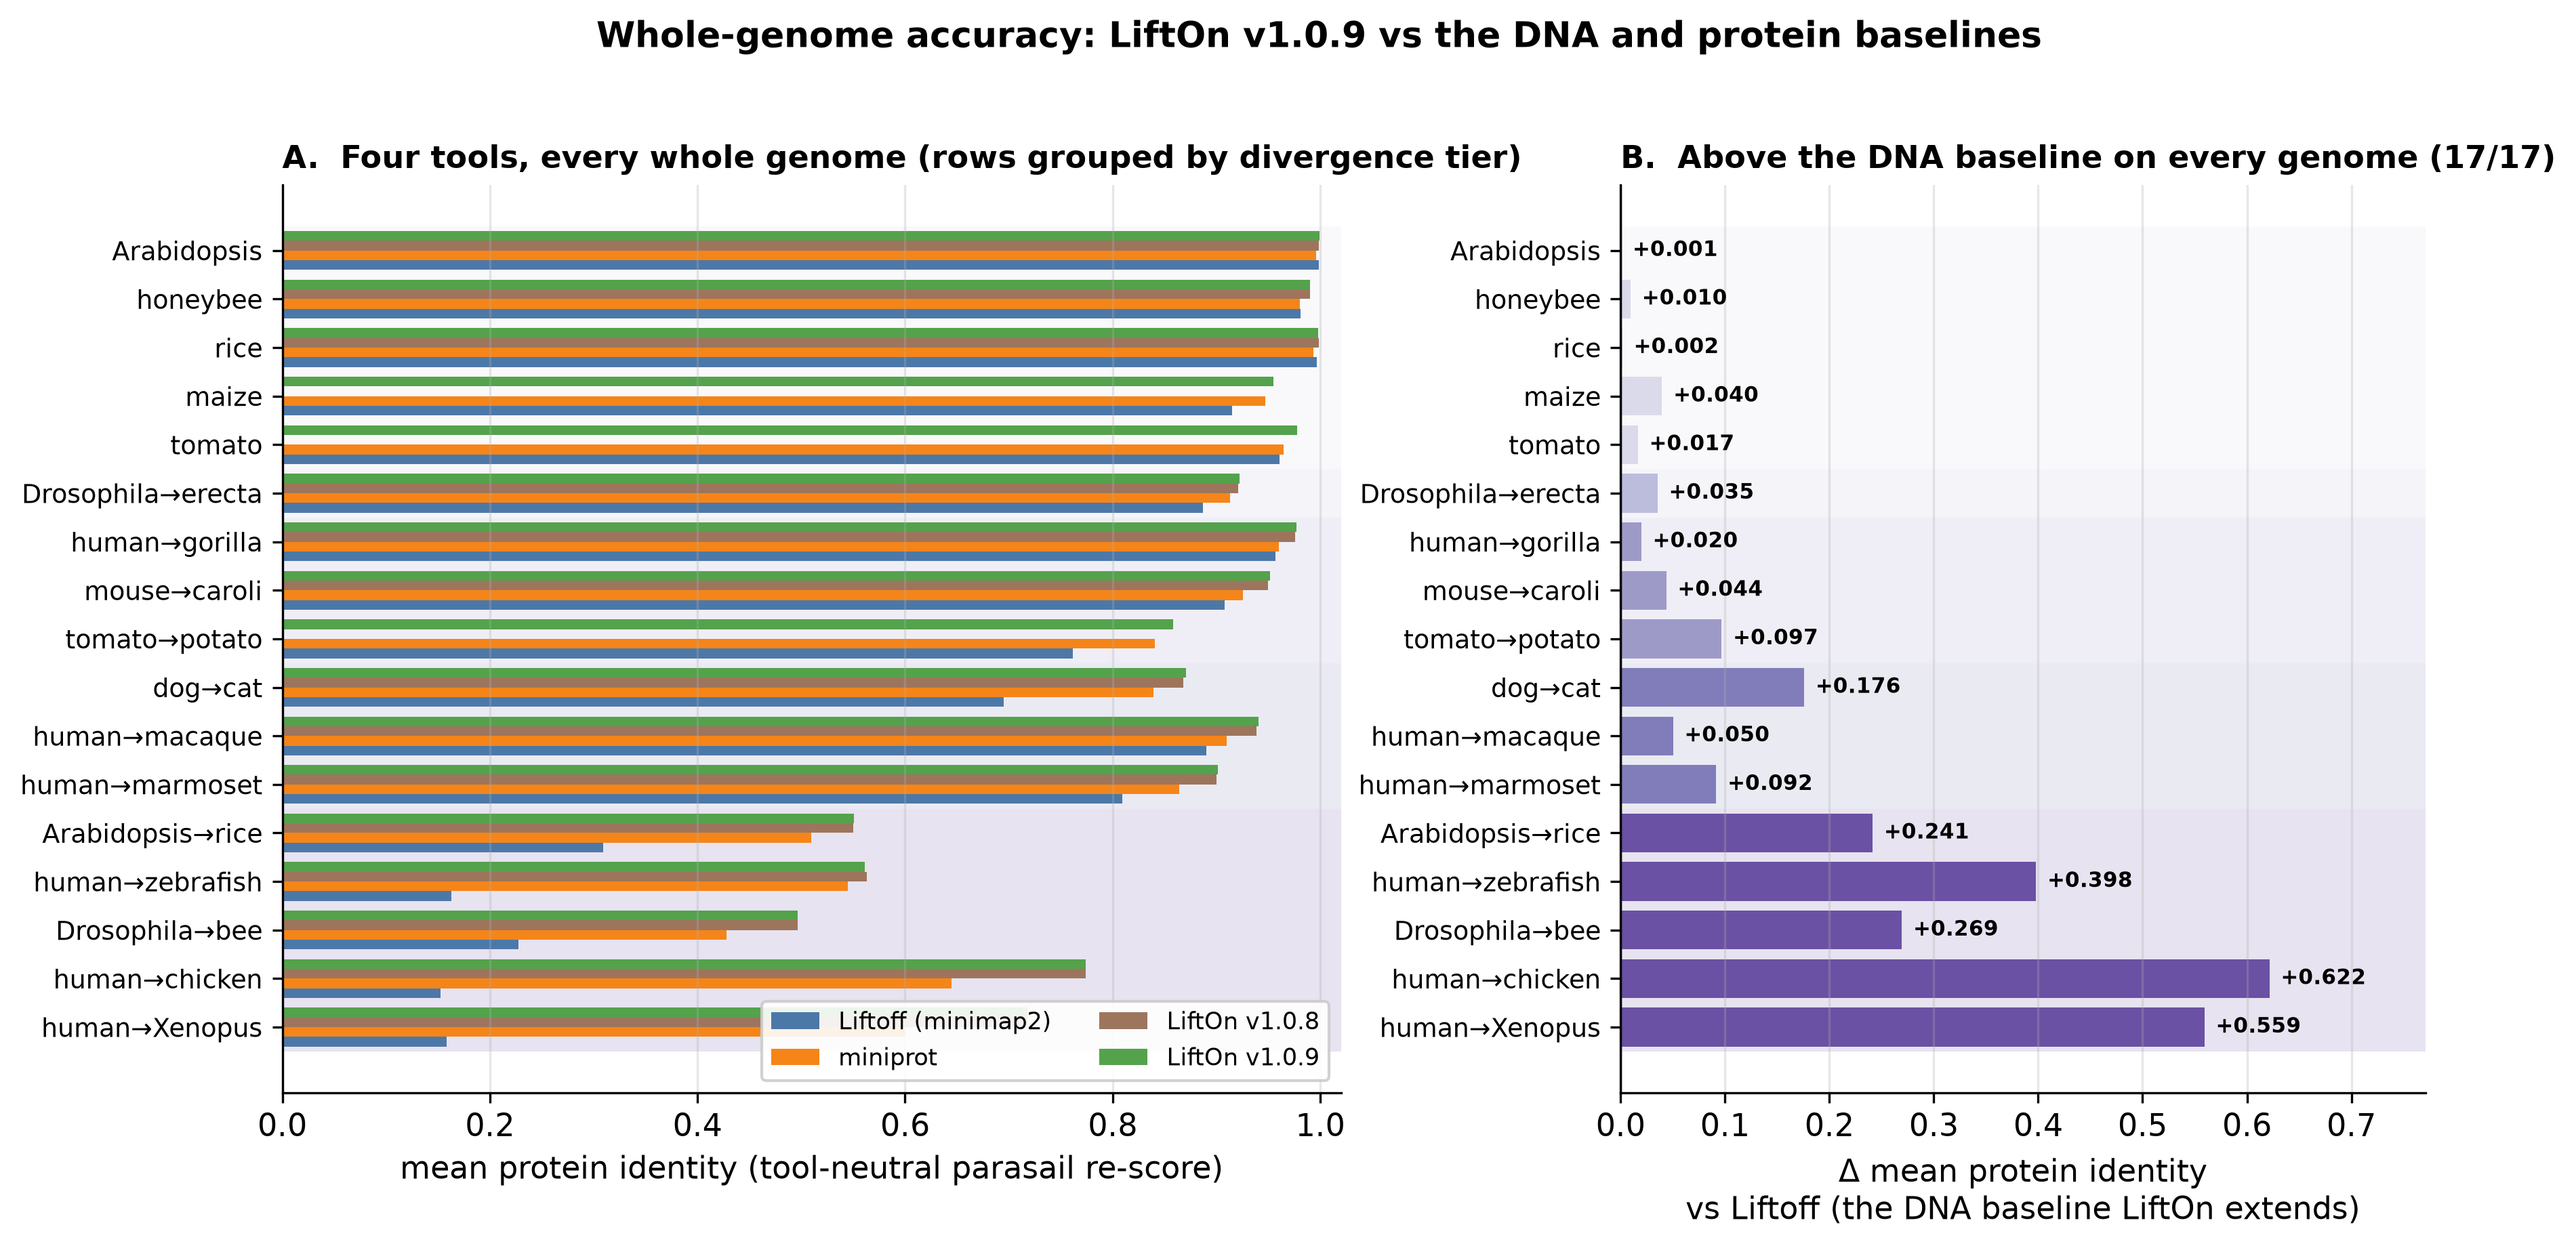
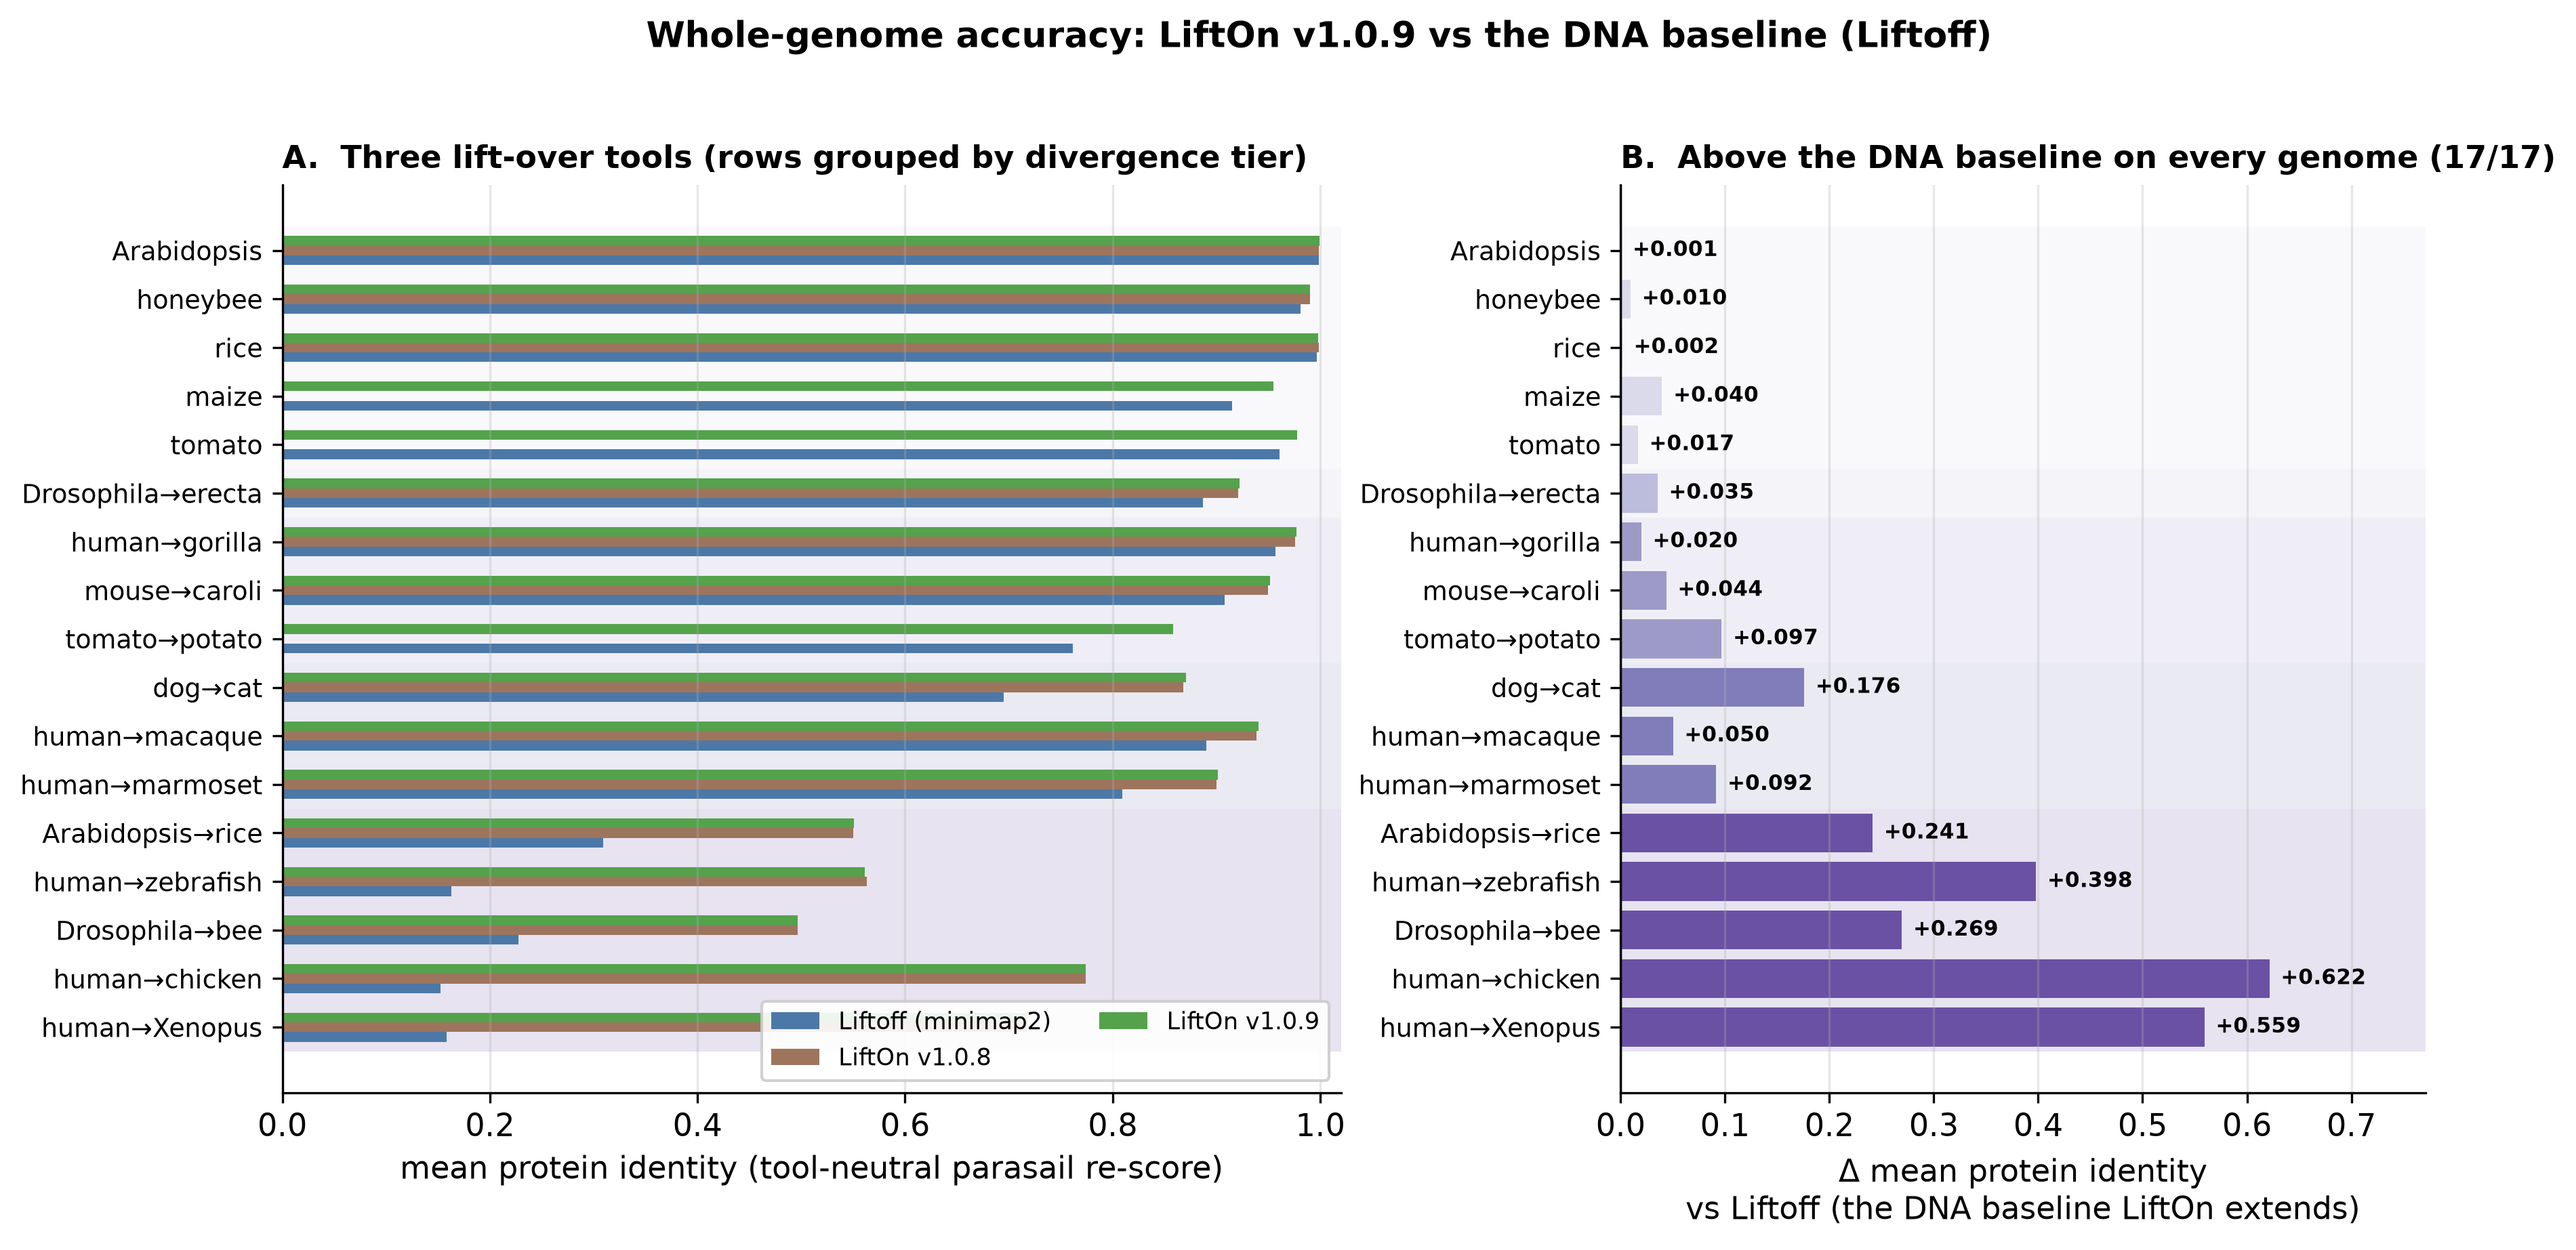
bench(report figures): demote miniprot to protein-evidence in the headline figures
Reframe the v1.0.9 report figures so miniprot is shown as LiftOn's internal
protein evidence (the -M input it fuses), not a rival lift-over tool. The
headline comparison is the three homology lift-over tools (Liftoff, LiftOn
v1.0.8, v1.0.9):
- master_report.py: add HEADLINE_TOOLS / EVIDENCE_TOOLS (+ EXT_TOOLS scaffolding
  for the upcoming CAT/LiftOver sub-study).
- fig_full_accuracy: panel A = the 3 lift-over tools (miniprot removed);
  suptitle "vs the DNA baseline (Liftoff)".
- fig_full_completeness: 3 headline bars + miniprot as distinct evidence
  diamonds (keeps the recall-trade-off story without a peer bar).
- fig_full_apples_to_apples: relabeled the protein-evidence view.

Presentation only; all numbers from the committed fourway_results.json unchanged.

Claude-Session: https://claude.ai/code/session_01BGA1R8hxE5ZKL2ieXNhWW4

diff --git a/benchmarks/compare/report_figures.py b/benchmarks/compare/report_figures.py
@@ -583,12 +583,14 @@ def fig_full_accuracy(fw):
     axA = fig.add_subplot(gs[0, 0])
     axB = fig.add_subplot(gs[0, 1])
 
-    # (A) four-way mean protein identity
+    # (A) headline accuracy — the three homology lift-over tools. miniprot is
+    # LiftOn's internal protein evidence (not a rival lift-over tool); its
+    # accuracy context lives in the dedicated protein-evidence figure, not here.
     _tier_bands(axA, recs)
-    for i, t in enumerate(mr.TOOLS):
+    for i, t in enumerate(mr.HEADLINE_TOOLS):
         vals = [r["mean_pi"].get(t) if isinstance(r["mean_pi"].get(t), float) else 0
                 for r in recs]
-        axA.barh(y + (1.5 - i) * h, vals, height=h, color=mr.TOOL_COLORS[t],
+        axA.barh(y + (1 - i) * h, vals, height=h, color=mr.TOOL_COLORS[t],
                  label=LABEL[t])
     axA.set_yticks(y)
     axA.set_yticklabels(labels, fontsize=9)
@@ -597,7 +599,7 @@ def fig_full_accuracy(fw):
     axA.set_xlabel("mean protein identity (tool-neutral parasail re-score)")
     axA.grid(axis="x", alpha=0.3)
     axA.legend(fontsize=8.5, loc="lower right", ncol=2, framealpha=0.9)
-    _panel_title(axA, "A", "Four tools, every whole genome (rows grouped by divergence tier)")
+    _panel_title(axA, "A", "Three lift-over tools (rows grouped by divergence tier)")
 
     # (B) devel − Liftoff: LiftOn's value-add over the pure-DNA model, which grows
     # from negligible (same-species, DNA already near-perfect) to enormous
@@ -623,7 +625,7 @@ def fig_full_accuracy(fw):
                          fontsize=7.5, fontweight="bold")
     _nwin = sum(1 for d in deltas if d is not None and d >= 0)
     _panel_title(axB, "B", f"Above the DNA baseline on every genome ({_nwin}/{len(recs)})")
-    fig.suptitle("Whole-genome accuracy: LiftOn v1.0.9 vs the DNA and protein baselines",
+    fig.suptitle("Whole-genome accuracy: LiftOn v1.0.9 vs the DNA baseline (Liftoff)",
                  fontsize=12.5, fontweight="bold", y=1.02)
     return _save(fig, "rfig_full_accuracy.png")
 
@@ -635,17 +637,26 @@ def fig_full_completeness(fw):
     h = 0.2
     fig, ax = plt.subplots(figsize=(11.6, 6.6))
     _tier_bands(ax, recs)
-    for i, t in enumerate(mr.TOOLS):
+    for i, t in enumerate(mr.HEADLINE_TOOLS):
         vals = [(r["completeness_coding"].get(t) or 0) * 100
                 if isinstance(r["completeness_coding"].get(t), float) else 0
                 for r in recs]
-        ax.barh(y + (1.5 - i) * h, vals, height=h, color=mr.TOOL_COLORS[t],
+        ax.barh(y + (1 - i) * h, vals, height=h, color=mr.TOOL_COLORS[t],
                 label=LABEL[t])
+    # miniprot is LiftOn's protein EVIDENCE, not a rival lift-over tool — show its
+    # (often much higher) recall as a distinct evidence marker, so the very-distant
+    # recall context stays visible without framing it as a headline bar.
+    mp = [(r["completeness_coding"].get("miniprot") or 0) * 100
+          if isinstance(r["completeness_coding"].get("miniprot"), float) else 0
+          for r in recs]
+    ax.scatter(mp, y + 1.8 * h, marker="D", s=24, color=mr.TOOL_COLORS["miniprot"],
+               edgecolor="k", linewidth=0.4, zorder=6,
+               label="miniprot — protein evidence (recall)")
     # mark the genomes v1.0.8 crashed on. Where it left a scorable partial
     # annotation (arabidopsis 28%, rice 77%) show that %; where it aborted with
     # no scorable whole-genome output (maize, tomato pairs) show just "crash"
     # at the axis origin rather than a misleading "0%".
-    stable_y = y + (1.5 - 2) * h
+    stable_y = y   # lifton_stable is the middle headline bar (offset 0)
     for yi, r in zip(stable_y, recs):
         if _is_stable_crash(r):
             scc = r["completeness_coding"].get("lifton_stable")
@@ -664,8 +675,9 @@ def fig_full_completeness(fw):
     ax.set_xlabel("coding-transcript completeness (% of reference)")
     ax.legend(fontsize=8.5, loc="lower right", ncol=2, framealpha=0.9)
     ax.grid(axis="x", alpha=0.3)
-    ax.set_title("Whole-genome completeness — at extreme distance miniprot trades "
-                 "identity for recall", fontsize=11.5, fontweight="bold", loc="left")
+    ax.set_title("Whole-genome completeness — the protein evidence (miniprot) "
+                 "recovers more at extreme distance", fontsize=11.5,
+                 fontweight="bold", loc="left")
     return _save(fig, "rfig_full_completeness.png")
 
 
@@ -738,7 +750,7 @@ def fig_full_apples_to_apples(fw):
              label="set-mean lead vs best(Liftoff, miniprot)")
     axA.barh(y + h / 2, [d or 0 for d in common], height=h,
              color=["#2ca02c" if (d or 0) >= 0 else "#d62728" for d in common],
-             label="apples-to-apples vs miniprot (common recovered set)")
+             label="apples-to-apples vs the protein evidence (common recovered set)")
     for yi, c, n in zip(y, common, ncom):
         if isinstance(n, int):
             axA.annotate(f"n={n:,}", (c or 0, yi + h / 2),
@@ -760,7 +772,8 @@ def fig_full_apples_to_apples(fw):
     cov_dev = [(r["joint"].get("covpi") or {}).get("lifton_devel", 0) for r in recs]
     cov_mp = [(r["joint"].get("covpi") or {}).get("miniprot", 0) for r in recs]
     axB.barh(y - h / 2, cov_dev, height=h, color=mr.TOOL_COLORS["lifton_devel"], label="LiftOn v1.0.9")
-    axB.barh(y + h / 2, cov_mp, height=h, color=mr.TOOL_COLORS["miniprot"], label="miniprot")
+    axB.barh(y + h / 2, cov_mp, height=h, color=mr.TOOL_COLORS["miniprot"],
+             label="miniprot (protein evidence)")
     axB.set_yticks(y)
     axB.set_yticklabels(labels, fontsize=9)
     axB.invert_yaxis()
@@ -769,8 +782,9 @@ def fig_full_apples_to_apples(fw):
     axB.grid(axis="x", alpha=0.3)
     axB.legend(fontsize=8.5, loc="lower right", framealpha=0.9)
     _panel_title(axB, "B", "Coverage-weighted PI (recall × accuracy)")
-    fig.suptitle("The joint recall-vs-identity view — locating the genuine per-transcript win",
-                 fontsize=12.5, fontweight="bold", y=1.02)
+    fig.suptitle("Protein-evidence view: LiftOn v1.0.9 vs the miniprot signal it fuses "
+                 "(miniprot is evidence, not a rival lift-over tool)",
+                 fontsize=11.8, fontweight="bold", y=1.02)
     return _save(fig, "rfig_full_apples_to_apples.png")
 
 

diff --git a/benchmarks/compare/master_report.py b/benchmarks/compare/master_report.py
@@ -49,6 +49,25 @@ TOOL_SHORT = {"liftoff": "Liftoff", "miniprot": "miniprot",
 TOOL_COLORS = {"liftoff": "#4c78a8", "miniprot": "#f58518",
                "lifton_stable": "#9d755d", "lifton_devel": "#54a24b"}
 
+# miniprot is LiftOn's INTERNAL protein evidence (the -M input it fuses), NOT a
+# rival homology lift-over tool. The HEADLINE comparison is the three lift-over
+# tools (each takes only (ref, ref-annotation, target) and emits a re-scorable
+# annotation); miniprot is shown ONLY as protein-evidence context (the apples-to-
+# apples / coverage-weighted view), never as a headline bar. `TOOLS` stays the
+# full data-bearing set (scoring + joint metrics still compute the miniprot column).
+HEADLINE_TOOLS = ["liftoff", "lifton_stable", "lifton_devel"]
+EVIDENCE_TOOLS = ["miniprot"]
+
+# Stage-F broader comparison (5-pair sub-study): the headline lift-over tools +
+# CAT v1/v2 (alignment-based comparative annotators; need a precomputed Cactus
+# alignment) + coordinate LiftOver (chain-based; coordinate-only, out-of-class).
+EXT_TOOLS = ["liftoff", "lifton_stable", "lifton_devel", "cat_v1", "cat_v2", "liftover"]
+TOOL_LABEL.update({"cat_v1": "CAT v1", "cat_v2": "CAT v2",
+                   "liftover": "LiftOver (coord-only)"})
+TOOL_SHORT.update({"cat_v1": "CAT v1", "cat_v2": "CAT v2", "liftover": "LiftOver"})
+# CAT = teals (distinct from LiftOn green); LiftOver = grey (out-of-class).
+TOOL_COLORS.update({"cat_v1": "#17becf", "cat_v2": "#1f9aa0", "liftover": "#9e9e9e"})
+
 # gene-like feature types the devel default lifts that v1.0.8 / naive Liftoff drop
 GENE_LIKE = ("pseudogene", "ncRNA", "lnc_RNA", "lncRNA", "tRNA", "rRNA",
              "snoRNA", "snRNA", "miRNA", "ncRNA_gene", "transposable_element_gene",
